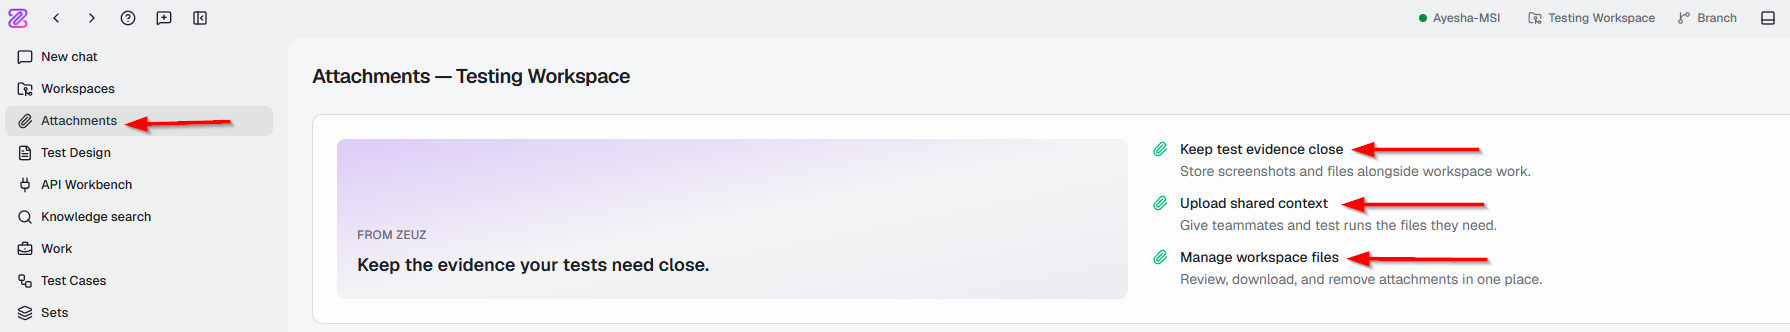
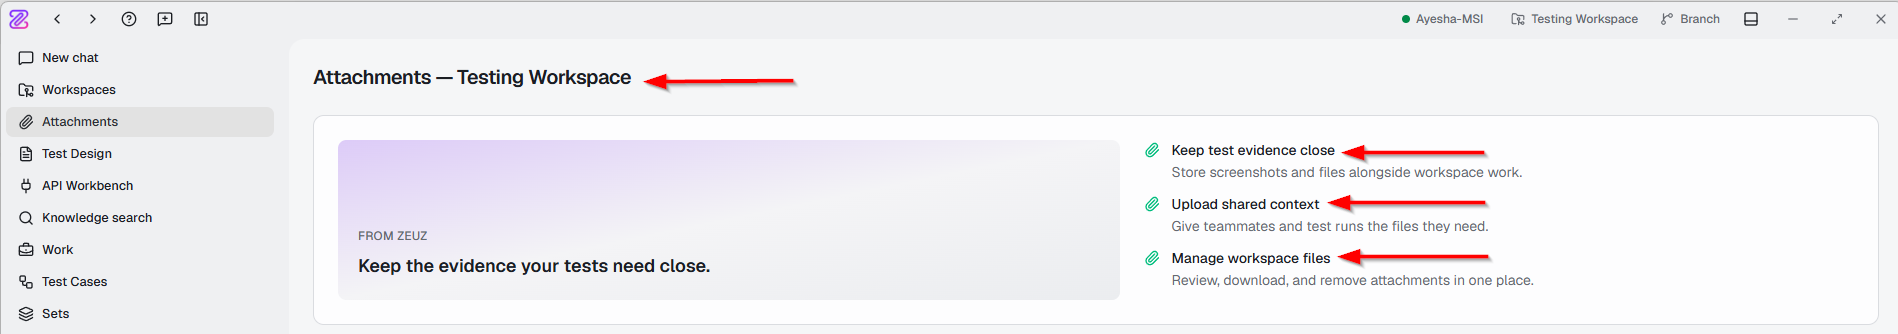
test studio docs

diff --git a/docs/ZeuZ Test Studio/Attachments.md b/docs/ZeuZ Test Studio/Attachments.md
@@ -2,3 +2,109 @@
 id: attachments
 title: Attachments
 ---
+
+import MetaCard from '@site/src/components/MetaCard/';
+
+**Attachments** in Test Studio are files registered in a workspace so that test cases can use them as test data or resources during execution. Test steps reference these files using their exact registered filenames.
+
+<MetaCard
+availableFrom="202605"
+difficulty="🟢 Easy"
+lastUpdated="27 Sep, 2026"
+/>
+
+### Why it matters / Use Cases:
+- **Keep Test Evidence**: Stores screenshots and other files alongside workspace-related testing work.
+- **Shared Test Resources**: Allows team members and test runs to access the files required by test cases.
+- **File-Based Testing**: Supports test scenarios that require files, such as uploads, image comparisons, and document imports.
+- **Centralized File Management**: Provides a single place to upload, review, download, and remove workspace attachments.
+- **Test Data Management**: Allows registered files to be used as resources by test cases during execution.
+
+## Prerequisites
+- **Required File**: The file to be used in the test case should be available on the local machine.
+- **Supported File**: The file should be in a format supported by the intended test scenario, such as an image or document.
+- **Upload Permission**: Users must have permission to upload files to the workspace.
+- **Test Case Requirement**: If the file is intended for a test case, the test should reference the attachment using its exact registered filename.
+
+## Features
+- The **Attachments** feature can be accessed from the left-side panel of the Test Studio app.
+- After clicking the Attachments feature, users are directed to the **Attachments** page.
+
+  ![](/img/zeuz-test-studio/required-attachment.png)
+
+### Top section of the Attachments page
+- The top section of the **Attachments** page highlights the main purposes of the Attachments feature:  
+  - **Keep test evidence close**: Allows users to store screenshots and other files alongside their workspace testing activities.
+  - **Upload shared context**: Allows users to upload files that can be accessed by teammates and test runs when required.
+  - **Manage workspace files**: Provides a centralized place to review, download, and remove attachments.
+
+  ![](/img/zeuz-test-studio/attachment-option.png)
+
+### Upload Files
+- The upload area allows users to add files in two ways:  
+  - **Drop files here or choose files**: Allows users to select files from their local machine or drag and drop them into the upload area.
+  - **Upload files**: Allows users to upload the selected files to the workspace.
+
+  ![](/img/zeuz-test-studio/attachment-drop.png)
+
+### Uploaded Attachment
+- An **uploaded attachment** is a file that has been added to a workspace so that it can be used as a resource for test cases. It contains the following options:  
+  - **File Name**: Displays the name of the uploaded file.
+  - **File Size**: It indicates the amount of storage space occupied by an uploaded file.
+  - **Uploaded By**: It indicates the user who added the file to the workspace.
+  - **Upload date**: It indicates the date on which the file was added to the workspace.
+  - **Usage**: It indicates whether the file is currently referenced by any test case.
+  - **Description**: It provides additional information about the uploaded file, such as its purpose or how it is intended to be used.
+
+  ![](/img/zeuz-test-studio/attachment-description.png)
+
+- The available actions for the uploaded file include:  
+  - **Download**: Downloads the file.
+  - **Edit**: Allows users to modify the file information.
+  - **Delete**: Removes the attachment from the workspace.
+
+  ![](/img/zeuz-test-studio/additional-options.png)
+
+  :::note
+  - To edit the file description, click the **Edit** button first and then the **Edit Description** window will then open.
+  - In the **Edit Description** window, enter the required description in the Description field and click **Save** to apply the changes.
+
+  ![](/img/zeuz-test-studio/edit-description.png)
+
+  :::
+
+## FAQs / Troubleshooting
+
+<details>
+<summary>Why can't I use an attachment in a test case?</summary>
+
+Make sure the file has been successfully registered as a workspace attachment and that the test case references the attachment using its exact registered filename.
+
+</details>
+
+<details>
+<summary>How can I check whether an attachment is being used?</summary>
+
+The Usage information for each attachment indicates whether the file is currently referenced by any test case.
+
+</details>
+
+<details>
+<summary>Can I edit an attachment after uploading it?</summary>
+
+Users can edit the attachment's description through the Edit option, but the file itself cannot be modified through the description editor.
+
+</details>
+
+<details>
+<summary>Can I delete an attachment?</summary>
+
+Yes. Users can delete an attachment using the Delete option. However, attachments referenced by test cases should be checked before deletion.
+
+</details>
+
+## Changelog
+
+- A dedicated workspace for creating, refining, comparing, and versioning AI-generated UI mockups [[202605](/blog/zeuz-platform-202605/)]
+
+---
